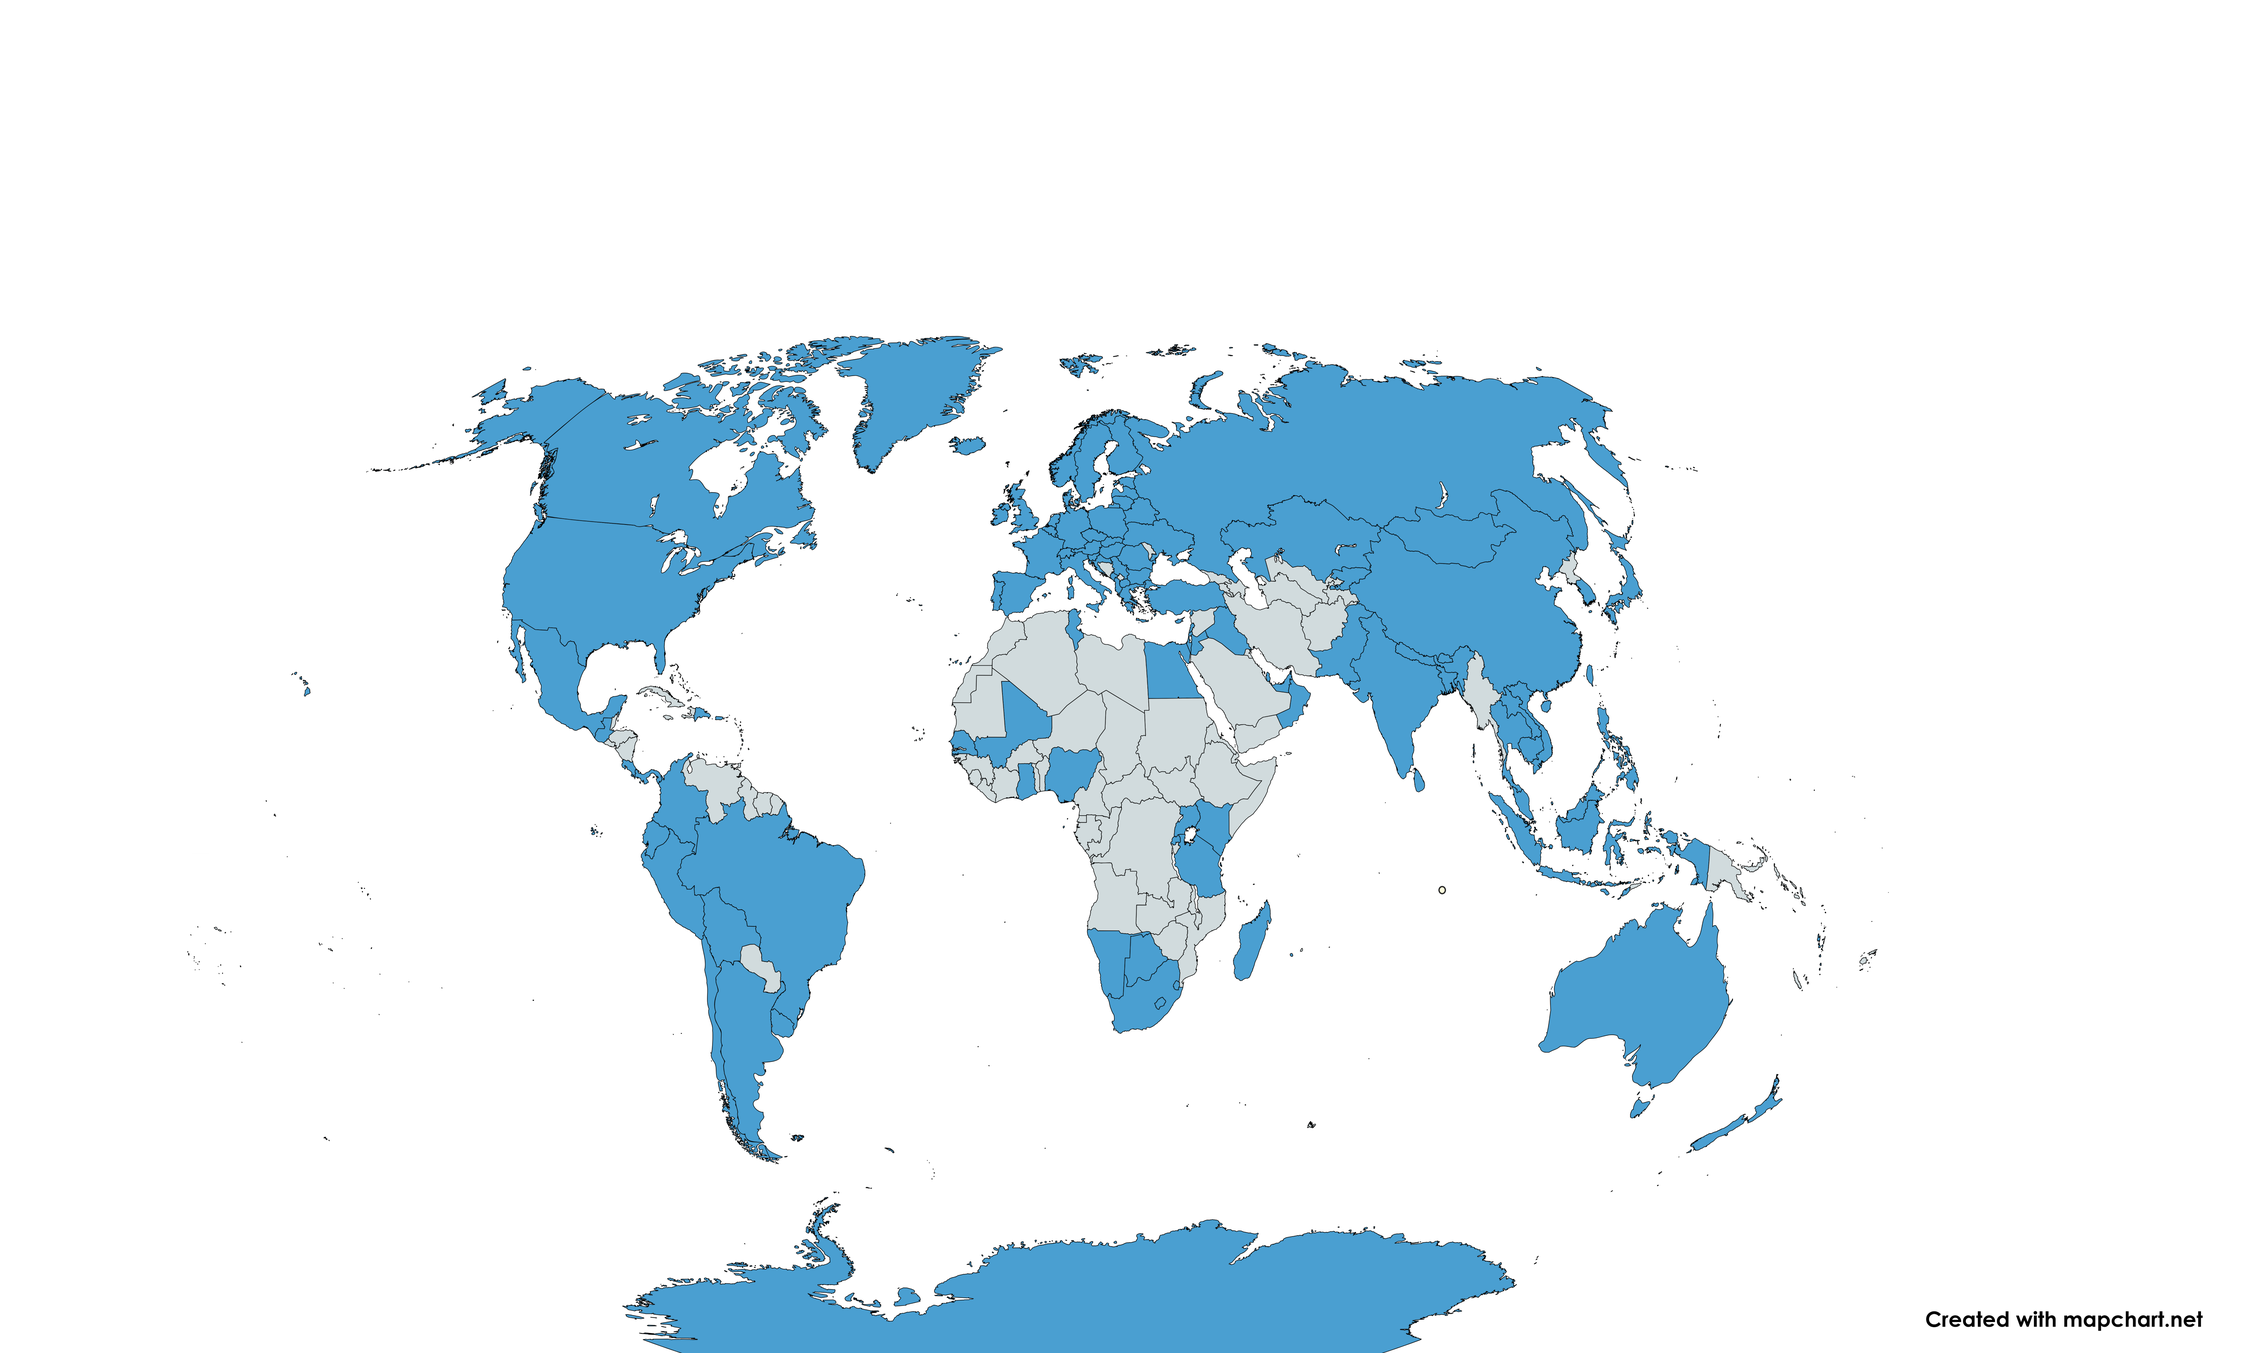
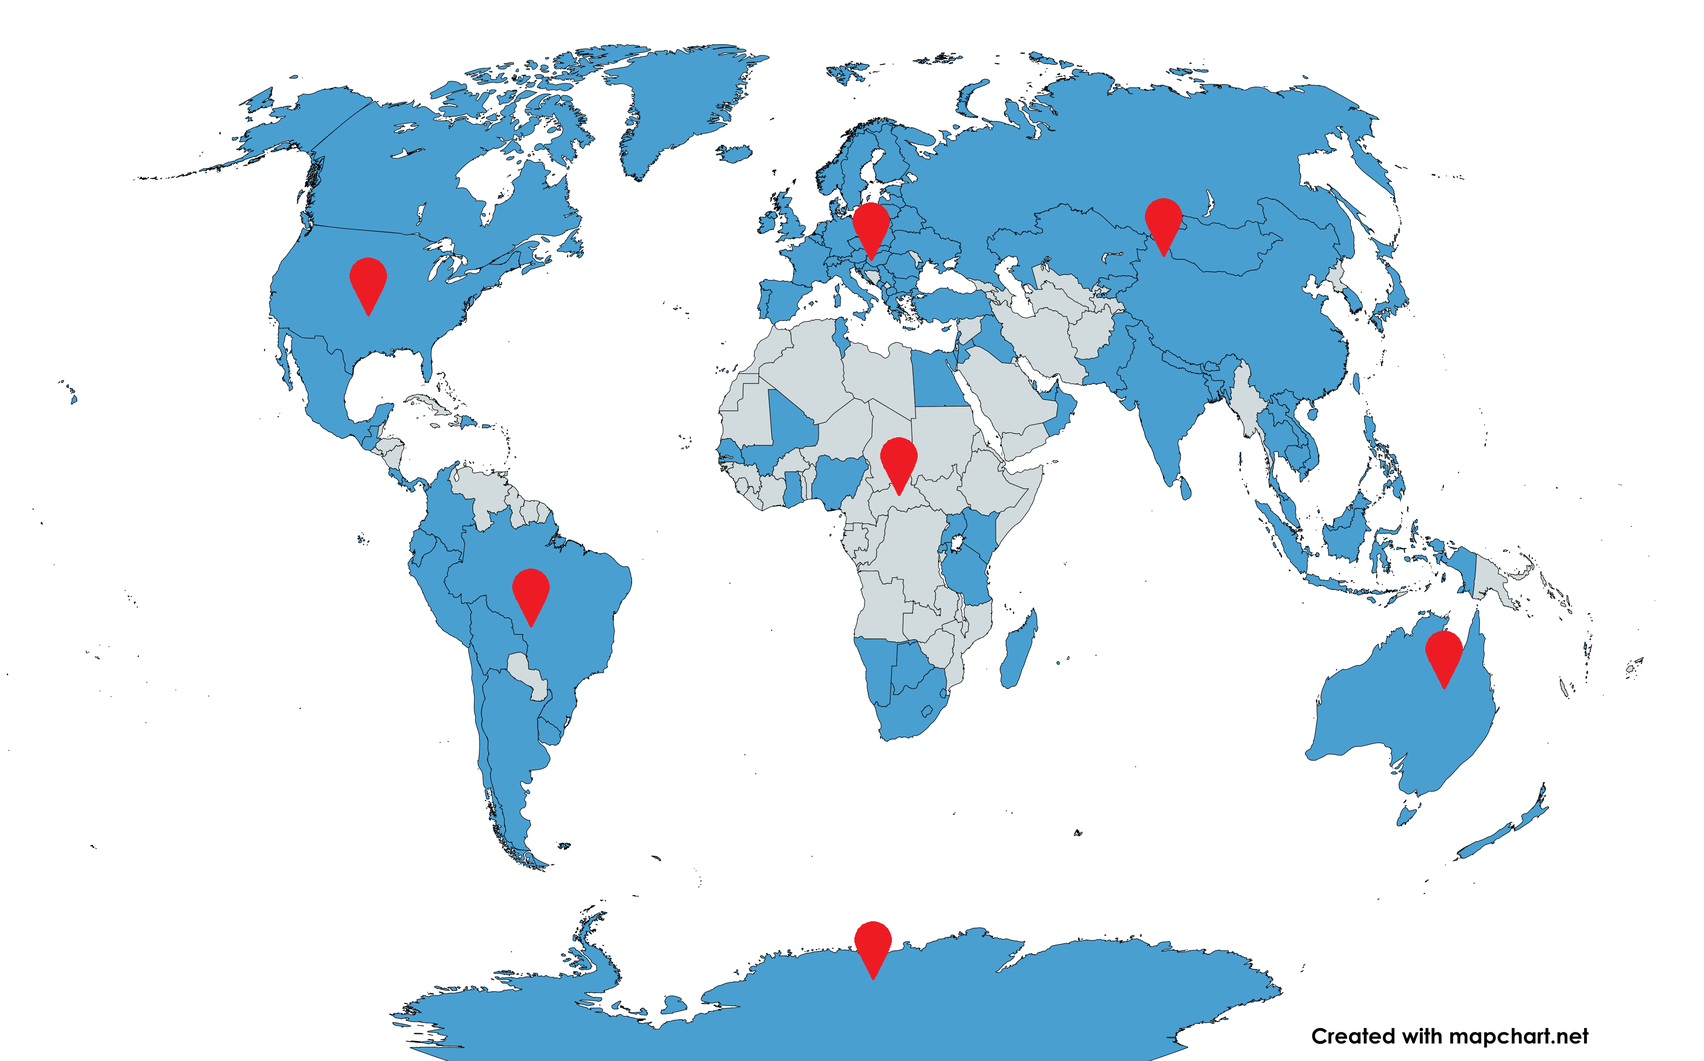
Most of Website Changed
Added new pages and images.
Added two js files for some things to work.
Changed world map in index to be smaller and have pins on the continents.

diff --git a/index.html b/index.html
@@ -16,38 +16,180 @@
             <p>All strategies in GeoGuessr can be categorized into two type. These are meta and non-meta strategies. Meta strategies are those that use information specific to the game, such as the the quality of the camera used for the street view and the details about the Google car. Bascially, if you were actually there in real life, you would not be able to use these strategies. Non-meta strategies are those that can be seen in real life. Things such as text on signs, licence plates, and building architecture are examples of non-meta strategies.</p>
             <h2>Countries in GeoGuessr</h2>
             <p>While you can choose any place on the map, not every country has street views in the game. This is the first meta strategy you should learn about. What countries are impossible to be placed in? Here is a map of all the countries where you can be placed.</p>
+            
+            
+            <!-- Two of the element I picked were Map and Area. These elements allow me to create clickable areas on an image. -->
+            <!--I made the areas link to sections at the bottom that lists the countries -->
+            <!--Two of the attributes I picked go along with area. The coords and shapes attributes define the clickable regions on the image. Shape can be rect, circle, or poly. Coords are used define the location and size of the area.-->
             <map name="countries">
-                
+                <area target="" alt="North America" title="North America" href="#North America" coords="1061,770,1220,984" shape="rect">
+                <area target="" alt="South America" title="South America" href="#South America" coords="1555,1729,1726,1997" shape="rect">
+                <area target="" alt="Europe" title="Europe" href="#Europe" coords="2601,594,2786,854" shape="rect">
+                <area target="" alt="Africa" title="Africa" href="#Africa" coords="2697,1321,2867,1573" shape="rect">
+                <area target="" alt="Asia" title="Asia" href="#Asia" coords="3498,572,3690,839" shape="rect">
+                <area target="" alt="Oceania" title="Oceania" href="#Oceania" coords="4380,1915,4565,2167" shape="rect">
+                <area target="" alt="Antarctica" title="Antarctica" href="#Antarctica" coords="2625,2819,2797,3065" shape="rect">
             </map>
-            <img class = "map" usemap="countries" src="images/countries_map.png" alt="Map of countries available in GeoGuessr">
+            <!-- Image Map Generated by http://www.image-map.net/ -->
+            <!--I used this site to find the coords to use for area elements.-->
+            <img class = "map" src="images/countries_map.png" usemap="#countries" id= "countriesMap" alt="Map of countries available in GeoGuessr">
             <section id="North America">
                 <h3>North America</h3>
                 <ul>
-                    <li>United States</li>
                     <li>Canada</li>
+                    <li>Costa Rica</li>
+                    <li>Dominican Republic</li>
+                    <li>Greenland</li>
+                    <li>Guatemala</li>
                     <li>Mexico</li>
+                    <li>Panama</li>
+                    <li>Puerto Rico</li>
+                    <li>United States</li>
                 </ul>
             </section>
             <section id="South America">
                 <h3>South America</h3>
+                <ul>
+                    <li>Argentina</li>
+                    <li>Bolivia</li>
+                    <li>Brazil</li>
+                    <li>Chile</li>
+                    <li>Colombia</li>
+                    <li>Ecuador</li>
+                    <li>Peru</li>
+                    <li>Uruguay</li>
+                </ul>
             </section>
             <section id="Europe">
                 <h3>Europe</h3>
+                <ul>
+                    <li>Albania</li>
+                    <li>Andorra</li>
+                    <li>Austria</li>
+                    <li>Belarus</li>
+                    <li>Belgium</li>
+                    <li>Bulgaria</li>
+                    <li>Croatia</li>
+                    <li>Czech Republic</li>
+                    <li>Denmark</li>
+                    <li>Estonia</li>
+                    <li>Faroe Islands</li>
+                    <li>Finland</li>
+                    <li>France</li>
+                    <li>Germany</li>
+                    <li>Gibraltar</li>
+                    <li>Greece</li>
+                    <li>Hungary</li>
+                    <li>Iceland</li>
+                    <li>Ireland</li>
+                    <li>Isle of Man</li>
+                    <li>Italy</li>
+                    <li>Latvia</li>
+                    <li>Liechtenstein</li>
+                    <li>Lithuania</li>
+                    <li>Luxembourg</li>
+                    <li>Malta</li>
+                    <li>Monaco</li>
+                    <li>Montenegro</li>
+                    <li>Netherlands</li>
+                    <li>North Macedonia</li>
+                    <li>Norway</li>
+                    <li>Poland</li>
+                    <li>Portugal</li>
+                    <li>Romania</li>
+                    <li>San Marino</li>
+                    <li>Serbia</li>
+                    <li>Slovakia</li>
+                    <li>Slovenia</li>
+                    <li>Spain</li>
+                    <li>Sweden</li>
+                    <li>Switzerland</li>
+                    <li>Turkey</li>
+                    <li>Ukraine</li>
+                    <li>United Kingdom</li>
+                </ul>
             </section>
             <section id="Asia">
                 <h3>Asia</h3>
+                <ul>
+                    <li>Bangladesh</li>
+                    <li>Bhutan</li>
+                    <li>Cambodia</li>
+                    <li>China</li>
+                    <li>Cyprus</li>
+                    <li>India</li>
+                    <li>Indonesia</li>
+                    <li>Iraq</li>
+                    <li>Israel</li>
+                    <li>Japan</li>
+                    <li>Jordan</li>
+                    <li>Kazakhstan</li>
+                    <li>Kyrgyzstan</li>
+                    <li>Laos</li>
+                    <li>Lebanon</li>
+                    <li>Malaysia</li>
+                    <li>Mongolia</li>
+                    <li>Nepal</li>
+                    <li>Oman</li>
+                    <li>Pakistan</li>
+                    <li>Philippines</li>
+                    <li>Qatar</li>
+                    <li>Singapore</li>
+                    <li>South Korea</li>
+                    <li>Sri Lanka</li>
+                    <li>Taiwan</li>
+                    <li>Thailand</li>
+                    <li>Turkey</li>
+                    <li>United Arab Emirates</li>
+                    <li>Vietnam</li>
+                </ul>
             </section>
             <section id="Africa">
                 <h3>Africa</h3>
+                <ul>
+                    <li>Botswana</li>
+                    <li>Egypt</li>
+                    <li>Eswatini</li>
+                    <li>Ghana</li>
+                    <li>Kenya</li>
+                    <li>Lesotho</li>
+                    <li>Madagascar</li>
+                    <li>Mali</li>
+                    <li>Namibia</li>
+                    <li>Nigeria</li>
+                    <li>Rwanda</li>
+                    <li>Senegal</li>
+                    <li>South Africa</li>
+                    <li>Tanzania</li>
+                    <li>Tunisia</li>
+                    <li>Uganda</li>
+                </ul>
             </section>
             <section id="Oceania">
                 <h3>Oceania</h3>
+                <ul>
+                    <li>Australia</li>
+                    <li>Christmas Island</li>
+                    <li>Guam</li>
+                    <li>New Zealand</li>
+                </ul>
             </section>
+            <section id="Antarctica">
+                <h3>Antarctica</h3>
+            </section>
+            <h2>Strategies</h2>
+            <ul>
+                <li><a href="plates.html" title="License Plates">License Plates</a></li>
+                <li><a href="drivingSide.html" title="Driving Side">Driving Side</a></li>
+                <li><a href="domains.html" title="Website Domains">Website Domains</a></li>
+            </ul>
         </main>
         <footer>
             <p>
-                This is the footer.
+                
             </p>
         </footer>
+        <!--I needed JavaScript to scale the map and area for different browser window sizes-->
+        <script src="ScaleMap.js"></script>
     </body>
 </html>

diff --git a/plates.html b/plates.html
@@ -1,0 +1,48 @@
+<!DOCTYPE html>
+<html lang="en">
+    <head>
+        <meta charset="UTF-8">
+        <title>GeoGuessr Guide</title>
+        <link rel="stylesheet" href="css/styles.css"/>
+    </head>
+    <body>
+        <header role="banner">
+            <h1>GeoGuessr Guide</h1>
+        </header>
+        
+        <main role="main">
+            <nav role="navigation">
+            <ul>
+                <li><a href="index.html" title="Home">Home</a></li>
+                <li><a href="plates.html" title="License Plates">License Plates</a></li>
+                <li><a href="drivingSide.html" title="Driving Side">Driving Side</a></li>
+                <li><a href="domains.html" title="Website Domains">Website Domains</a></li>
+            </ul>
+            </nav>
+            <h2>License Plates</h2>
+            <p>License plates are a way that you can identify what country you are in. License plates can have different colors depending on the country. While most license plates in street view are blurred out, you can still make out enough details to eliminate certain possibilities.</p>
+            <h3>Size</h3>
+            <p>The first thing you want to notice about a license plate is its size. The main thing that the size of the license plate will tell is whether you are in Europe or not. European license plates are longer and narrower than other license plates.</p>
+            <p>Here is an example of a European license plate compared to a non-European license plate:</p>
+            <!--Option was the last element I chose. Option needs to be used in some sort of selection element. This creates a dropdown menu and option elements are the items in the dropdown list.-->
+            <!--The last attribute I picked was selected. This is used for the option element to indicate which option is selected by default.-->
+            <label for="blurSelect">Choose if License Plate is Blurred:</label><br>
+            <select id="blurSelect">
+                <option value="non-blurred" selected>Non-blurred License Plate</option>
+                <option value="blurred">Blurred License Plate</option>
+            </select><br><br>
+            <img class="blurImage" src="images/EuropeanLicensePlate.jpg" alt="European License Plate"/>
+            <img class="blurImage" src="images/NonEuropeanLicensePlate.jpg" alt="Non-European License Plate"/>
+            <p>Here, you can see even when blurred, the different sizes and colors of the plates.</p>
+            <h3>License Plate Colors</h3>
+            <p>After you've confirmed you are in Europe, there are some countries you will be able to identify based on the colors. All European license plates have the blue stripe on the left side but only Italy has a second blue stripe on the right side. Portugal also has the right stripe but its color is yellow. If the main color of the license plate is yellow instead of white, you are either in the Netherlands, Luxembourg, or sometimes the UK. Another country you can see a yellow license plate that is not in Europe is Colombia. So if you see a lot of Spanish and yellow license plates, you are likely in Colombia.</p>
+            <h3>Important Note</h3>
+            <p>While license plates can be very useful for identifying the country you are in, you should always take into account that cars can be driven around so the license plate might not always correspond to the country the car is in. It is best to take look at multiple cars just in case you got unlucky and looked at a car from another country.</p>
+        </main>
+        <footer>
+            
+        </footer>
+        <!--JavaScript file needed for blurring the license plate images -->
+        <script src="BlurImage.js"></script>
+    </body>
+</html>

diff --git a/drivingSide.html b/drivingSide.html
@@ -1,0 +1,32 @@
+<!DOCTYPE html>
+<html lang="en">
+    <head>
+        <meta charset="UTF-8">
+        <title>GeoGuessr Guide</title>
+        <link rel="stylesheet" href="css/styles.css"/>
+    </head>
+    <body>
+        <header role="banner">
+            <h1>GeoGuessr Guide</h1>
+        </header>
+        
+        <main role="main">
+            <nav role="navigation">
+                <ul>
+                    <li><a href="index.html" title="Home">Home</a></li>
+                    <li><a href="plates.html" title="License Plates">License Plates</a></li>
+                    <li><a href="drivingSide.html" title="Driving Side">Driving Side</a></li>
+                    <li><a href="domains.html" title="Website Domains">Website Domains</a></li>
+                </ul>
+            </nav>
+            <h2>Driving Side</h2>
+            <p>Many people around the world use cars to drive. However, there is not one universal driving side for every country. Some countries like the United States drive on the right side of the road, while others, like the United Kingdom, drive on the left. Knowing what continent you are on and then looking at the side cars are driving on can immediately eliminate many possibilities.</p>
+            <h3>Map of Driving Sides</h3>
+            <p>This image shows which countries around the world drive on the left side and which drive on the right side.</p>
+            <img src="images/driving_sides_map.jpg" alt="Map showing driving sides around the world"/>
+            <p>Notice how in Europe, the UK and Ireland are the only countries that drive on the left. This means seeing a European license plate and seeing cars driving on the left side of the road can immediately narrow down your location to these two countries. It's also worth noting that only the Southern and some Eastern countries in Africa drive on the left. This means you can focus your search when you find out the driving side in Africa.</p>
+            <h3>Can't Find Any Cars</h3>
+            <p>Sometimes, you will find yourself in a place where there are not any cars around. Somethings you can do when this happens it to look at road signs. The sign will often be facing the way drivers are coming on that side of the road. Even if you can't find any signs, there is one more meta strategy you can use. In most street view images, there is always one car visible. That car is the one that took the street view image. Often times you can get the driving side by looking down at the car and seeing which way it faces. Unfortunately, sometimes you will get a tripod or hiker view instead of a car. In this case, you can't decide the driving side from the car itself.</p>
+        </main>
+    </body>
+</html>

diff --git a/domains.html b/domains.html
@@ -1,0 +1,49 @@
+<!DOCTYPE html>
+<html lang="en">
+    <head>
+        <meta charset="UTF-8">
+        <title>GeoGuessr Guide</title>
+        <link rel="stylesheet" href="css/styles.css"/>
+    </head>
+    <body>
+        <header role="banner">
+            <h1>GeoGuessr Guide</h1>
+        </header>
+        <main>
+            <h2>Website Domains</h2>
+            <p>If you are in a city, you will often see signs with text on them. Unfortunately, if you don't know some of the language, a lot of what you see will be useless to you. However, there are somethings that can be universally seen regardless of the language. One such thing is websites. At the end of websites, you will often see domains such as .com and .org. Some sites use a country specific domain. You can use this information to help identify the country you are in.</p>
+            <h3>Some Domains are Easy</h3>
+            <p>There are some domains that can be easily recognized based on the English spelling of the Country. For example, .uk for the United Kingdom and .fr for France. However, not all domains are this straightforward. Some countries use domains that are not immediately obvious, such as .ch for Switzerland and .de for Germany. It is good to learn the domain names for the most common countries because most websites outside the US will use their country-specific domain rather than .com or .org.</p>
+            <h3>Here is a list of some common country-specific domains:</h3>
+            <ul>
+                <li>.uk - United Kingdom</li>
+                <li>.fr - France</li>
+                <li>.ch - Switzerland</li>
+                <li>.de - Germany</li>
+                <li>.jp - Japan</li>
+                <li>.au - Australia</li>
+                <li>.at - Austria</li>
+                <li>.ca - Canada</li>
+                <li>.br - Brazil</li>
+                <li>.in - India</li>
+                <li>.cn - China</li>
+                <li>.ru - Russia</li>
+                <li>.za - South Africa</li>
+                <li>.mx - Mexico</li>
+                <li>.es - Spain</li>
+                <li>.it - Italy</li>
+                <li>.se - Sweden</li>
+                <li>.no - Norway</li>
+                <li>.fi - Finland</li>
+                <li>.dk - Denmark</li>
+                <li>.be - Belgium</li>
+                <li>.nl - Netherlands</li>
+                <li>.pt - Portugal</li>
+                <li>.is - Iceland</li>
+                
+            </ul>
+            <p>This is not an exhaustive list, but covers many of the countries you will see.</p>
+        </main>
+    </body>
+    <footer></footer>
+</html>

diff --git a/ScaleMap.js b/ScaleMap.js
@@ -1,0 +1,25 @@
+const image = document.getElementById("countriesMap")
+const areas = document.querySelectorAll('map[name="countries"] area')
+
+const originalCoords = []
+areas.forEach(area => {  //saves original coords for scaling
+    const coords = area.coords.split(",").map(Number)
+    originalCoords.push(coords)
+})
+
+const originalWidth = 5279
+
+function scaleMap() {
+    const currentWidth = image.clientWidth
+    const scale = currentWidth / originalWidth
+
+    areas.forEach((area, index) => {//uses scale and coords to create new coords that are scaled based on the images displayed size
+        const scaledCoords = originalCoords[index].map(coord => Math.round(coord * scale))
+
+        area.coords = scaledCoords.join(",")
+    })
+}
+
+//Event listeners for image loading and resizing
+image.addEventListener("load", scaleMap)
+window.addEventListener("resize", scaleMap)

diff --git a/BlurImage.js b/BlurImage.js
@@ -1,0 +1,14 @@
+const select = document.getElementById("blurSelect")
+const images = document.querySelectorAll(".blurImage")
+
+select.addEventListener("change", () => {//adds blurred class to images if blurred is selected. Removes it otherwise.
+    if (select.value === "blurred") {
+        images.forEach(image => {
+            image.classList.add("blurred")
+        })
+    } else {
+        images.forEach(image => {
+            image.classList.remove("blurred")
+        })
+    }
+})

diff --git a/CSS/styles.css b/CSS/styles.css
@@ -27,9 +27,12 @@ main {
     
 }
 .map{
-    width: 90%;
+    width: 100%;
     display: block;
     margin: 0 auto;
+}
+.blurred {
+    filter: blur(25px);/*I think this blur is more than the GeoGuessr blur*/
 }
 footer{
     font-size: 0.8em;
